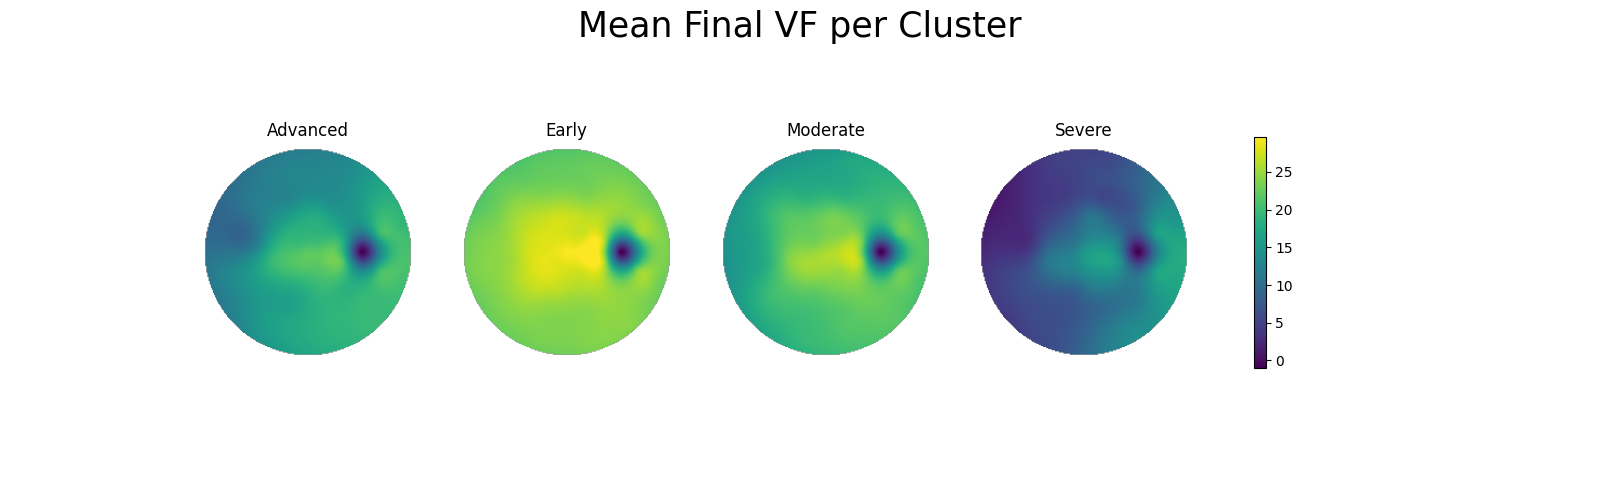
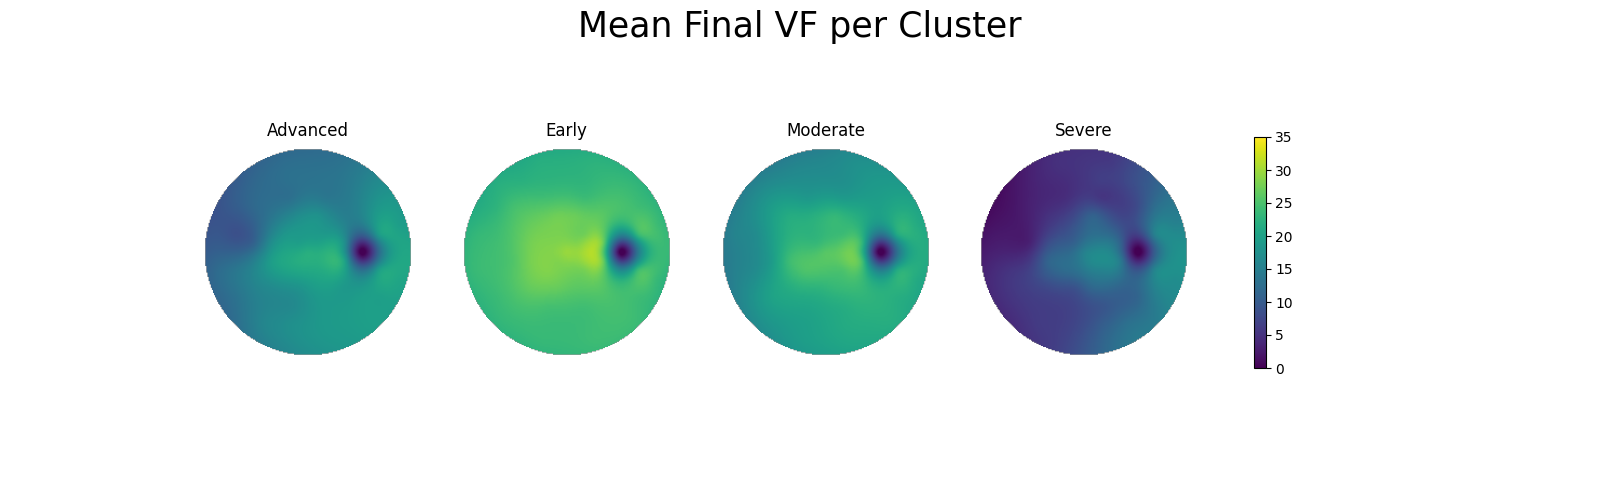
change VF images

diff --git a/unsupervised_model/analyze_uns_model.py b/unsupervised_model/analyze_uns_model.py
@@ -47,13 +47,25 @@ class Analyzer():
         
         return image
     
-    def _plot_interp_feature(self, feature, cmap = 'viridis', title = '', use_vminmax = True):
+    def _plot_interp_feature(self, feature, cmap = 'viridis', title = '', use_vminmax = 1):
         '''
         Plots a series of VFs.
+        use_vminmax : choose from three options
+            0 - create one colorbar based on vmin = 0 and vmax = 35 (Octopus dB range)
+            1 - create one colorbar based on vmin and vmax of clusters
+            2 - create many colorbars on individual scales
         '''
         fig, axes = plt.subplots(1, self.n_clusters, figsize=(4*self.n_clusters, 5))
 
-        if use_vminmax: #If want one colorbar on same scale 
+        if use_vminmax == 0: #If want one colorbar on range 0 to 35
+            for ax, c in zip(axes, self.clusters):
+                values = feature[c]
+                im = self._plot_interpolated_vf(values, ax=ax,
+                                        cmap=cmap, title=c, vmin=0, vmax=35)
+                
+            fig.colorbar(im, ax=axes.ravel().tolist(), shrink=0.6)
+
+        elif use_vminmax == 1: #If want one colorbar on same scale 
             all_vals = np.concatenate([feature[c] for c in self.clusters])
             vmin, vmax = all_vals.min(), all_vals.max()
             for ax, c in zip(axes, self.clusters):
@@ -62,16 +74,17 @@ class Analyzer():
                                         cmap=cmap, title=c, vmin=vmin, vmax=vmax)
 
             fig.colorbar(im, ax=axes.ravel().tolist(), shrink=0.6)
-            fig.suptitle(title, fontsize=25)
-        else: #If want many colorbars on individual scales
+            
+        elif use_vminmax == 2: #If want many colorbars on individual scales
             for ax, c in zip(axes, self.clusters):
                 values = feature[c]
                 im = self._plot_interpolated_vf(values, ax=ax,
                                         cmap=cmap, title=c, vmin=None, vmax=None)
-                fig.colorbar(im, ax=ax, shrink=0.6)  
+                fig.colorbar(im, ax=ax, shrink=0.6)
 
-            fig.suptitle(title, fontsize=25)
-
+        else: raise ValueError(f"use_vminmax must be 0, 1, or 2. Got {use_vminmax}")
+        
+        fig.suptitle(title, fontsize=25)
         return plt
 
     def show_label_distribution(self):
@@ -110,7 +123,7 @@ class Analyzer():
         self.baseline_means = {c: np.nanmean(self.patients[idx, 0, :], axis=0)
                           for c, idx in self.clusters.items()}
         
-        plot = self._plot_interp_feature(self.baseline_means, cmap='viridis', title = 'Mean Baseline VF per Cluster')
+        plot = self._plot_interp_feature(self.baseline_means, cmap='viridis', title = 'Mean Baseline VF per Cluster', use_vminmax=0)
         plot.savefig('unsupervised_model/mean_baseline.png')
 
     def _last_visit_per_patient(self):
@@ -134,7 +147,7 @@ class Analyzer():
         self.last_means = {c: np.nanmean(last_visits[idx], axis=0)
                            for c, idx in self.clusters.items()}
         
-        plot = self._plot_interp_feature(self.last_means, cmap='viridis', title = 'Mean Final VF per Cluster')
+        plot = self._plot_interp_feature(self.last_means, cmap='viridis', title = 'Mean Final VF per Cluster', use_vminmax=0)
         plot.savefig('unsupervised_model/mean_final.png')
 
     def show_mean_change(self):
@@ -144,7 +157,7 @@ class Analyzer():
         '''
         self.diff_means = {c: self.last_means[c]- self.baseline_means[c] for c in self.clusters.keys()}
     
-        plot = self._plot_interp_feature(self.diff_means, cmap='coolwarm_r', title = 'Mean Change in VF by Cluster', use_vminmax=True)
+        plot = self._plot_interp_feature(self.diff_means, cmap='coolwarm_r', title = 'Mean Change in VF by Cluster', use_vminmax=1)
         plot.savefig('unsupervised_model/mean_change.png')
 
     def show_mean_change_per_cluster(self):
@@ -152,7 +165,7 @@ class Analyzer():
         Interpolated VFs for the mean change in each cluster
         On individual color scale
         '''
-        plot = self._plot_interp_feature(self.diff_means, cmap='coolwarm_r', title = 'Mean Change in VF Within Each Cluster', use_vminmax=False)
+        plot = self._plot_interp_feature(self.diff_means, cmap='coolwarm_r', title = 'Mean Change in VF Within Each Cluster', use_vminmax=2)
         plot.savefig('unsupervised_model/mean_change_individual.png')
 
     def run_all(self):
